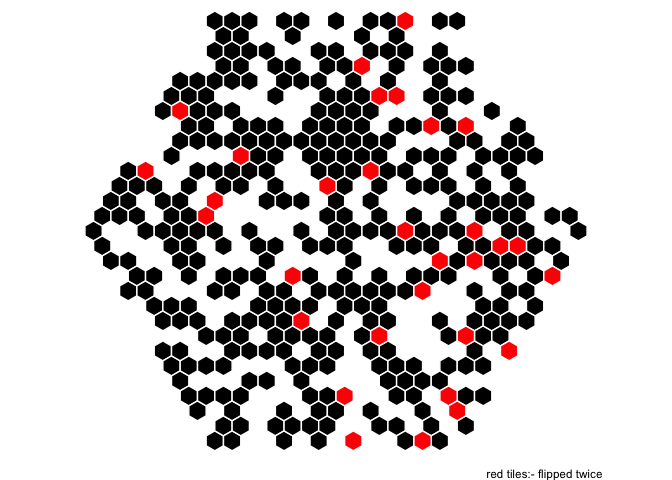
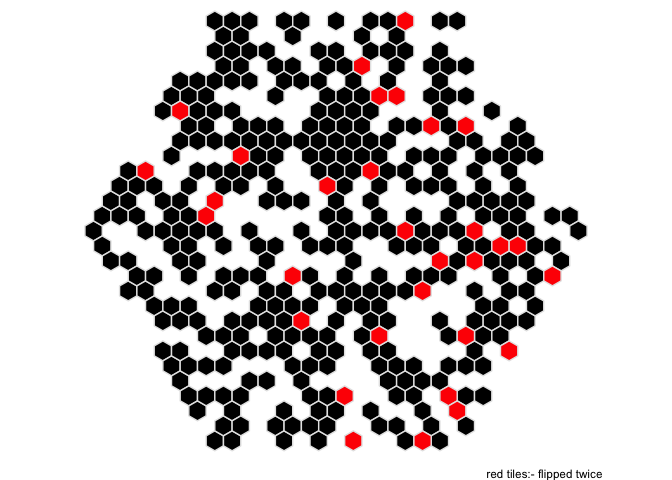
plot

diff --git a/day_24/advent_of_code_24.md b/day_24/advent_of_code_24.md
@@ -57,7 +57,7 @@ tiles %>%
 ``` r
 ggplot(tiles) +
   aes(x, y, fill = factor(n)) +
-  geom_hex(stat = "identity", colour = "white") +
+  geom_hex(stat = "identity", colour = "grey90") +
   scale_fill_manual(values = c("black", "red")) +
   theme_void() +
   theme(legend.position = "none") +
